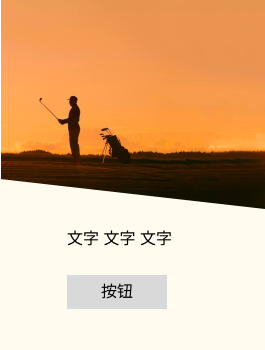
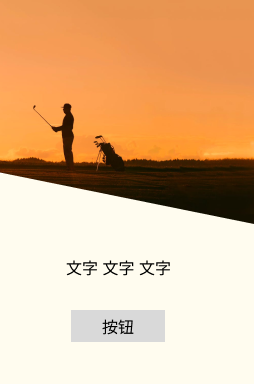
add mix-blend-mode

Changed region(s): [[0.0, 0.0, 1.0, 0.6], [0.248, 0.7714, 0.6614, 0.9143], [0.248, 0.6571, 0.689, 0.7143]]

diff --git a/src/CSS/mix-blend-mode.md b/src/CSS/mix-blend-mode.md
@@ -1,0 +1,60 @@
+# 背景
+
+![mix-blend-mode-1](/Users/qiyao/Documents/StudyNotes/src/CSS/assets/mix-blend-mode-1.png)
+
+如上图，图片背景是白色的，放置在灰色容器中很突兀。有什么办法可以去掉白色，让图片与灰色容器容器融为一体呢？
+
+可以用一个 css 属性： mix-blend-mode 
+
+
+
+# mix-blend-mode
+
+
+
+## 介绍
+
+控制几个元素 ( 包括伪元素 ) 在重叠部分的混合效果。有这些混合效果：
+
+![mix-blend-mode-3](/Users/qiyao/Documents/StudyNotes/src/CSS/assets/mix-blend-mode-3.png)
+
+
+
+## 如何比较
+
+
+
+![multiple-layers](/Users/qiyao/Documents/StudyNotes/src/CSS/assets/multiple-layers.png)
+
+
+
+以像素点为单位，从[底层到顶层](https://css-tricks.com/taming-blend-modes-difference-and-exclusion/)，将对应位置的像素点进行两两比较，比较时根据 mix-blend-mode 的属性值不同，进行相应的混合计算。
+
+
+
+![calculate-1](/Users/qiyao/Documents/StudyNotes/src/CSS/assets/calculate-1.png)
+
+1. 如上图，虚线框内是重叠区域。我们的需求是将白色部分混合成灰色。我们采用darken模式（**选取较暗的颜色值作为新颜色，即通道颜色数值更小的**）进行颜色通道计算：
+
+|      | #EDEDE9 RGB(237, 237, 233) | #000000 RGB(255, 255, 255) | 混合后结果 |
+| ---- | -------------------------- | -------------------------- | ---------- |
+| R    | 237                        | 255                        | 237        |
+| G    | 237                        | 255                        | 237        |
+| B    | 233                        | 255                        | 233        |
+
+上面表格我们只列举了图片白色背景和容器的像素点混合过程，图片主体部分同理都会进行上述混合计算。
+
+
+
+![calculate-2](/Users/qiyao/Documents/StudyNotes/src/CSS/assets/calculate-2.png)
+
+
+
+2. 再来计算一下上图的例子，容器 #F6F6F4，图片背景部分 #F1F2F5
+
+|      | #EDEDE9 RGB(246, 246, 244) | #000000 RGB(241, 242, 245) | 混合后结果 |
+| ---- | -------------------------- | -------------------------- | ---------- |
+| R    | 246                        | 241                        | 241        |
+| G    | 246                        | 242                        | 242        |
+| B    | 244                        | 245                        | 244        |
+
